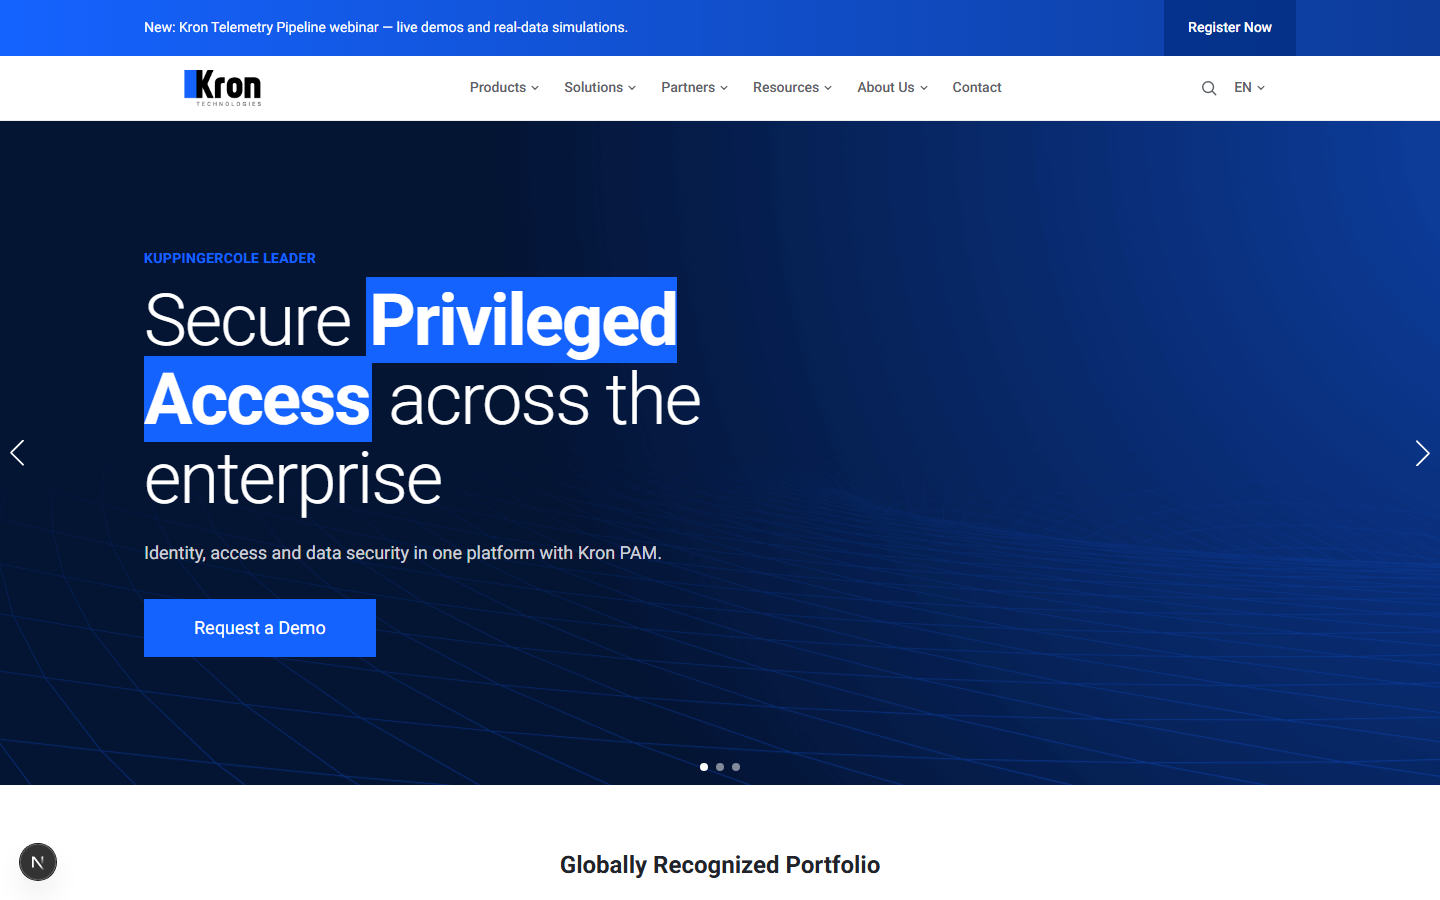
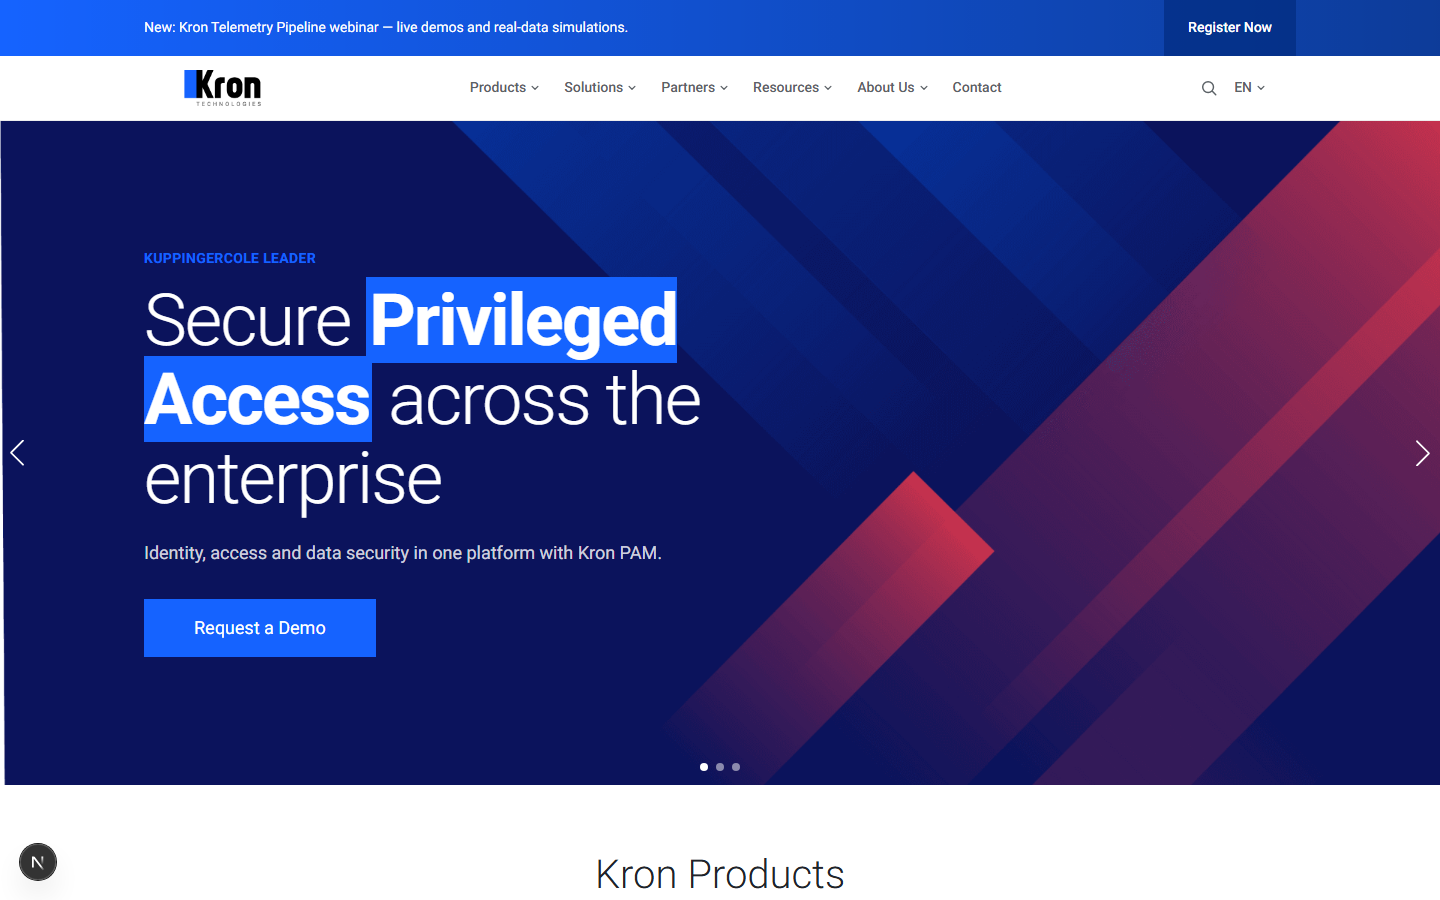
docs: comparison.md guncel 1:1 durumu + yeni ekran goruntuleri
- parity tablosu: showcase->productslider, why-kron->iki kolon, stats->ikon,
  case->banka gorseli, blog->kapak; urun/blog detay 🟡->✅; hero per-slide zemin
- bolum sirasi caveat kaldirildi (artik krontech ile ayni)
- perf notu: krontech'in KENDI gorsellerini optimize ettik (GroupZ9 1MB->170KB vb.)
- header-ours.png + full-ours.png yeni tasarimla yeniden cekildi

diff --git a/docs/comparison.md b/docs/comparison.md
@@ -39,14 +39,14 @@ Durum: ✅ Eslesti · 🟡 Kismi · ⬜ Bekliyor. Kanit = krontech'ten **cikaril
 | Mavi vurgu | `.bgblueb b { background:#1563ff; color:#fff; padding:0 3px }` | `[&_b]:bg-primary [&_b]:text-white [&_b]:px-[3px]` `hero-slide.tsx` | ✅ |
 | Butonlar | `.btn` **border-radius:0** + 50px yatay padding | `rounded-none px-[50px]` `hero-slide.tsx` | ✅ |
 | Header | duyuru bari + sticky + nav(dropdown) + arama + dil | `site-header.tsx` + `nav.ts` | ✅ |
-| Hero | `#main-slider` Swiper, ~9 slide | `hero-carousel.tsx` (swiper/react), 3 slide | ✅ |
-| Urun showcase | "Globally Recognized Portfolio" kart grid | `PRODUCT_SHOWCASE` `blocks.tsx` | ✅ |
-| Deger onermesi | "Why Kron?" | `VALUE_PROP` (koyu bant) | ✅ |
-| Istatistik | "6 kita / 35+ / 200+ / 1500+" | `STATS` | ✅ |
-| Vaka calismasi | banka vaka vurgusu | `CASE_STUDY` | ✅ |
-| Blog karuseli | "Keep up to Date" | `BLOG_CAROUSEL` (async + swiper) | ✅ |
+| Hero | `#main-slider` Swiper, 2 zemin (sliderbg / slider_bg_kc) | `hero-carousel.tsx` 3 slide, **per-slide zemin** (slider-kc + hero-bg) | ✅ |
+| Urun showcase | "Kron Products" **gorselli** kart slider (productslider) | `PRODUCT_SHOWCASE` → `product-carousel.tsx` (5 gercek urun + gorsel) | ✅ |
+| Deger onermesi | "Why Kron?" **iki kolon** (metin + gorsel + outline btn) | `VALUE_PROP` iki kolon + `why-kron.png` | ✅ |
+| Istatistik | "6 kita / 35+ / 200+ / 1500+" **ikonlu** | `STATS` + ikon gorselleri | ✅ |
+| Vaka calismasi | banka **gorseli** + `bgblueb` 28px baslik | `CASE_STUDY` + `case-bank.png` | ✅ |
+| Blog karuseli | "Keep up to Date" badge + **kapak** + tarih | `BLOG_CAROUSEL` + `Entry.coverImage` (Media) | ✅ |
 | Footer | `footer{bg #000; pt 50px}` + `.subfooter #0f1010`; 4 kolon; baslik 16px/600; link beyaz/.5 hover `#1563ff` | `site-footer.tsx` + `footer.ts` | ✅ |
-| Urun/blog **detay** sayfasi | urun hero/ozellik bloklari; makale tipografisi | `[slug]/page.tsx` + bloklar (temel) | 🟡 |
+| Urun/blog **detay** sayfasi | urun hero/ozellik/CTA; makale: kapak+meta | `[slug]/page.tsx`: breadcrumb + POST kapak/tarih + PRODUCT hero+FEATURE_GRID+CTA_BANNER | ✅ |
 | Iletisim/demo formu (koyu `footer-top`) | reCAPTCHA + intlTelInput + KVKK | Faz 6 kapsaminda | ⬜ |
 
 **Onemli ayrim — "tasarim sistemi" parity'si, piksel klonu degil.** Renk, tipografi,
@@ -75,9 +75,10 @@ http://localhost:3000/en. Sol: krontech (referans), sag: rebuild.
 |---|---|
 | ![krontech full](img/comparison/full-krontech.png) | ![rebuild full](img/comparison/full-ours.png) |
 
-> Footer neredeyse **piksel-esit** (ayni kolonlar/linkler/sosyal ikonlar/yasal bar). Yapisal
-> farklar (durust): krontech'in footer-ustu koyu **"Contact Us" formu** (bizde Faz 6 — formlar)
-> ve minik **bolum sirasi** farki (krontech: Why Kron > Numbers; bizde Numbers > Why Kron).
+> Footer neredeyse **piksel-esit** (ayni kolonlar/linkler/sosyal ikonlar/yasal bar). **Bolum sirasi
+> da artik krontech ile ayni** (Hero → Products → Why Kron → Numbers → Case Study → Blog). Tek yapisal
+> fark (durust): krontech'in footer-ustu koyu inline **"Contact Us" formu**; bizde ayri `/contact`
+> sayfasi (Faz 6 formlar). Anasayfa bolumleri **gercek krontech asset'leriyle** birebir esitlendi.
 
 ---
 
@@ -123,8 +124,10 @@ auth, yayin akisi, cache) — bizim insa ettigimiz tam da bu.
 - **SSR + ISR** (`fetch(revalidate, tags)`) + **Redis** → tekrar eden istekte DB'ye gitmez.
 - **Tek** carousel kutuphanesi; bilesenler tipli ve gerektiginde yuklenen ("use client" yalniz
   carousel'larda).
-- Next/font ile Roboto (yalniz kullanilan agirliklar), gorsel pipeline S3 + ileride
-  `next/image`.
+- Next/font ile Roboto (yalniz kullanilan agirliklar). **Public gorseller `sharp` ile optimize**
+  (display-aware resize + PNG palette / JPG mozjpeg). **Ayni kaynak gorseller, optimize edilmis:**
+  `GroupZ9` (banka vaka) 1 MB→**170 KB**, `slider_bg_kc` 635 KB→**124 KB**, ikonlar ~100 KB→**~10 KB**;
+  `public/kron` toplam ~3.5 MB→**0.9 MB**. (Yuklenen medya icin S3 pipeline + ileride `next/image`.)
 - Pazarlama/izleme **kapsam disi** (eklenirse GTM ile tek noktadan, KVKK/OneTrust ile).
 
 > Adil olalim: ucuncu-parti agirligin cogu **pazarlama kararidir**, muhendislik kusuru
@@ -149,6 +152,7 @@ auth, yayin akisi, cache) — bizim insa ettigimiz tam da bu.
 
 - **Gorsel kanit cekildi** (Bolum 1) — headless tarayici (gstack/browse) ile, manuel mudahale
   yok; krontech cookie banner'i otomatik temizlendi. Yeniden uretim: `docs/img/comparison/README.md`.
-- **Bekleyen parity** (durust): urun/blog **detay sayfalari** stillemesi (🟡) ve koyu
-  **iletisim/demo formu** (⬜, Faz 6). Anasayfa parity'si tamam.
+- **Bekleyen parity** (durust): yalnizca krontech'in koyu **footer-ustu inline iletisim formu**
+  (bizde ayri `/contact` sayfasi). Anasayfa + urun/blog **detay** parity'si tamam — gercek krontech
+  asset'leriyle (productslider gorselleri, banka vaka, Why-Kron, ikonlar, hero zemini, blog kapaklari).
 - **Olcum kaynagi:** krontech.com ana sayfa (2026-06), 145 HTTP islemi (network log) + `style.css`.